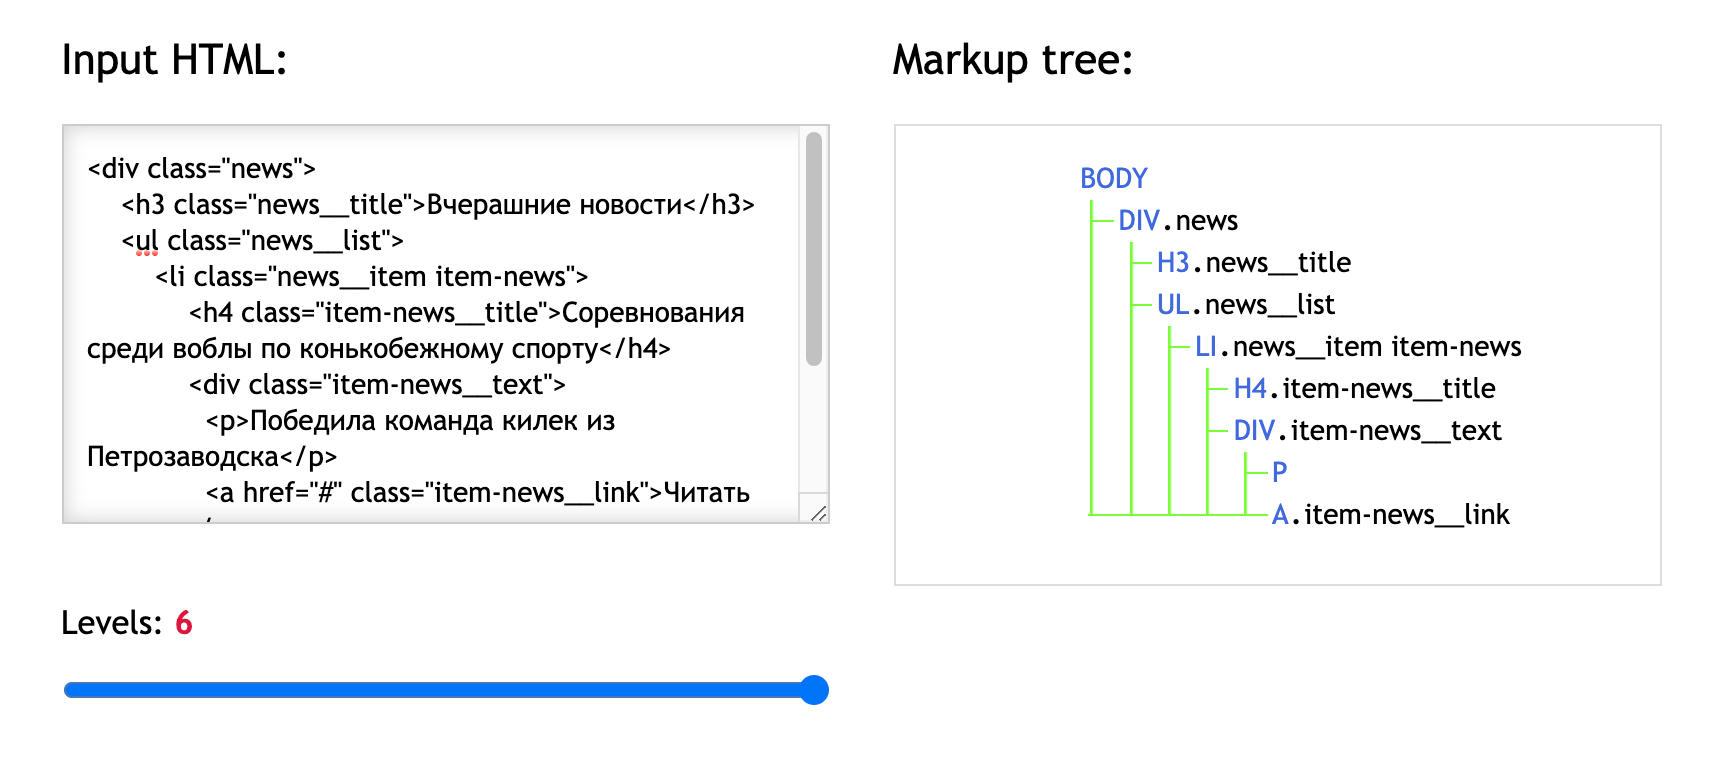
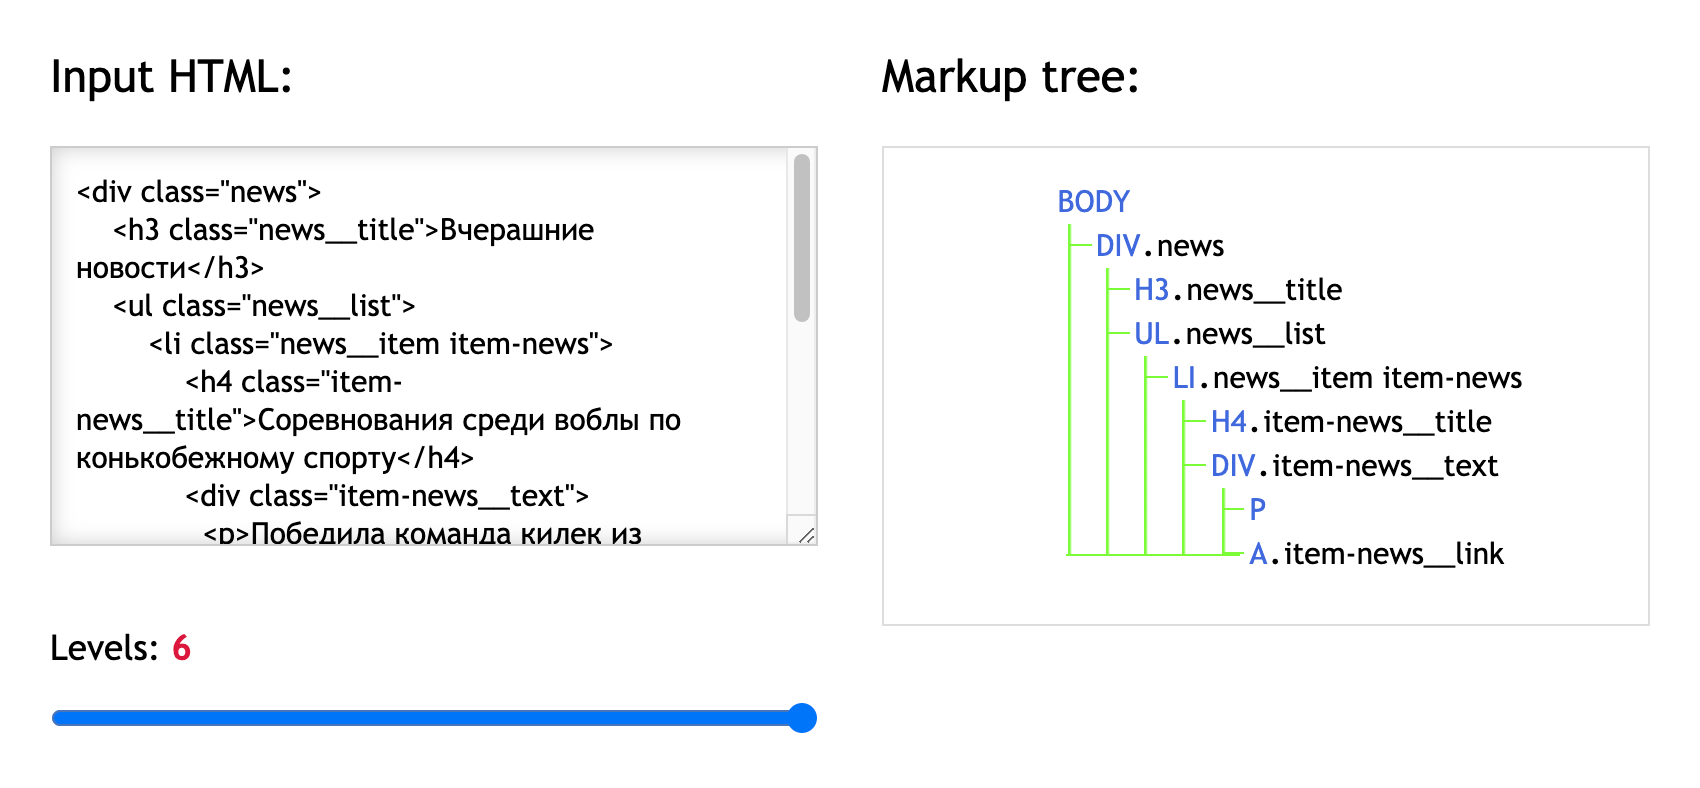
Update text & screens

diff --git a/src/index-src.html b/src/index-src.html
@@ -3,6 +3,13 @@
 <head>
   <meta charset="UTF-8">
   <title>{{title}}</title>
+  <meta name="description" content="{{desc}}">
+
+  <meta property="og:title" content="{{title}}">
+  <meta property="og:type" content="website">
+  <meta property="og:url" content="https://yoksel.github.io/html-tree/">
+  <meta property="og:description" content="{{desc}}">
+
   <link rel="stylesheet" href="{{path}}/assets/css/styles.css">
 </head>
 <body class="gnr-body">
@@ -22,7 +29,10 @@
     <div class="gnr-page__container">
       <div class="gnr-column">
         <h2 class="gnr-column__title">{{inputCode}}:</h2>
-        <textarea class="gnr-code-input" cols="30" rows="10"></textarea>
+        <textarea
+          class="gnr-code-input" cols="30" rows="10"
+          spellcheck="false"
+          ></textarea>
 
         <div class="gnr-deep">
           <h3 class="gnr-deep__title">
